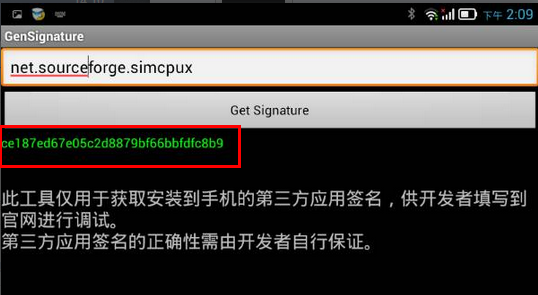
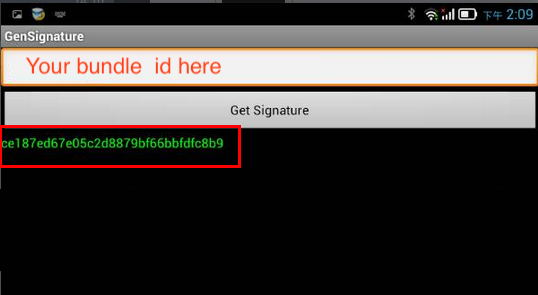
update doc

Changed region(s): [[0.0, 0.6407, 0.7138, 0.8542], [0.0, 0.1831, 0.4164, 0.2746], [0.7435, 0.6407, 0.9814, 0.7017]]

diff --git a/README.md b/README.md
@@ -4,16 +4,16 @@ Using [Latipay](http://www.latipay.net) sdk to intergrate Alipay and Wechat pay 
 
 ![](screenshot/home.png?a)
 
-### 1. For security reasons, Wechatpay needs signature for your android app.
+### 1. For security reasons in android apps, Wechat pay needs extra signature of your app.
 
-* Wechatpay Android app signature depends on keystore and bundle id. So please setup your keystore first for your project [Sign Your App](https://developer.android.com/studio/publish/app-signing)
-* Run [this apk](https://open.weixin.qq.com/zh_CN/htmledition/res/dev/download/sdk/Gen_Signature_Android.apk) in your mobile phone
-* Generate your app's signature with bundle id.
+* The signature depends on keystore and app bundle id. So please setup your keystore first for your project [Sign Your App](https://developer.android.com/studio/publish/app-signing).
+* Run [this apk](https://open.weixin.qq.com/zh_CN/htmledition/res/dev/download/sdk/Gen_Signature_Android.apk) in your mobile phone.
+* Generate your the signature with bundle id.
 * All is done. Please tell us your signature.
 
 ![](screenshot/chapter8_5_3.png)
 
-### 2. Download [latipay.aar](https://github.com/Latipay/LatipaySDK-Android-Demo/raw/master/latipay/latipay.aar) module and import it into your android studio project. 
+### 2. Download [latipay.aar](https://github.com/Latipay/LatipaySDK-Android-Demo/raw/master/latipay/latipay.aar) module and import it into your android studio project.
 
 Android Studio: New > New Module..
 
@@ -25,7 +25,7 @@ Add latipay dependency into your project's build.gradle
 ```
 dependencies {
   ...
-  
+
   implementation 'com.tencent.mm.opensdk:wechat-sdk-android-with-mta:+'
   implementation project(':latipay')
 }
@@ -53,13 +53,13 @@ req.setListener(new LatipayListener() {
   public void onOrderCompleted(HashMap<String, String> latipayOrder, Error error) {
     //1. create a latipay order which is pending.
   }
-    
+
   @Override
   public void onPaymentCompleted(String result, Error error) {
     //2. then alipay app will tell you the result of payment
   }
 });
-	
+
 LatipayAPI.sendRequest(req);
 ```
 
@@ -78,13 +78,13 @@ req.setListener(new LatipayListener() {
   public void onOrderCompleted(HashMap<String, String> latipayOrder, Error error) {
     //1. create a latipay order which is pending.
   }
-    
+
   @Override
   public void onPaymentCompleted(String result, Error error) {
     //2. then wechat app will tell you the result of payment
   }
 });
-	
+
 LatipayAPI.sendRequest(req);
 ```
 
@@ -112,5 +112,3 @@ Parameters:
 ```
 
 [More info about this notify api](http://doc.latipay.net/v2/latipay-hosted-online.html#Payment-Result-Asynchronous-Notification)
-
-
